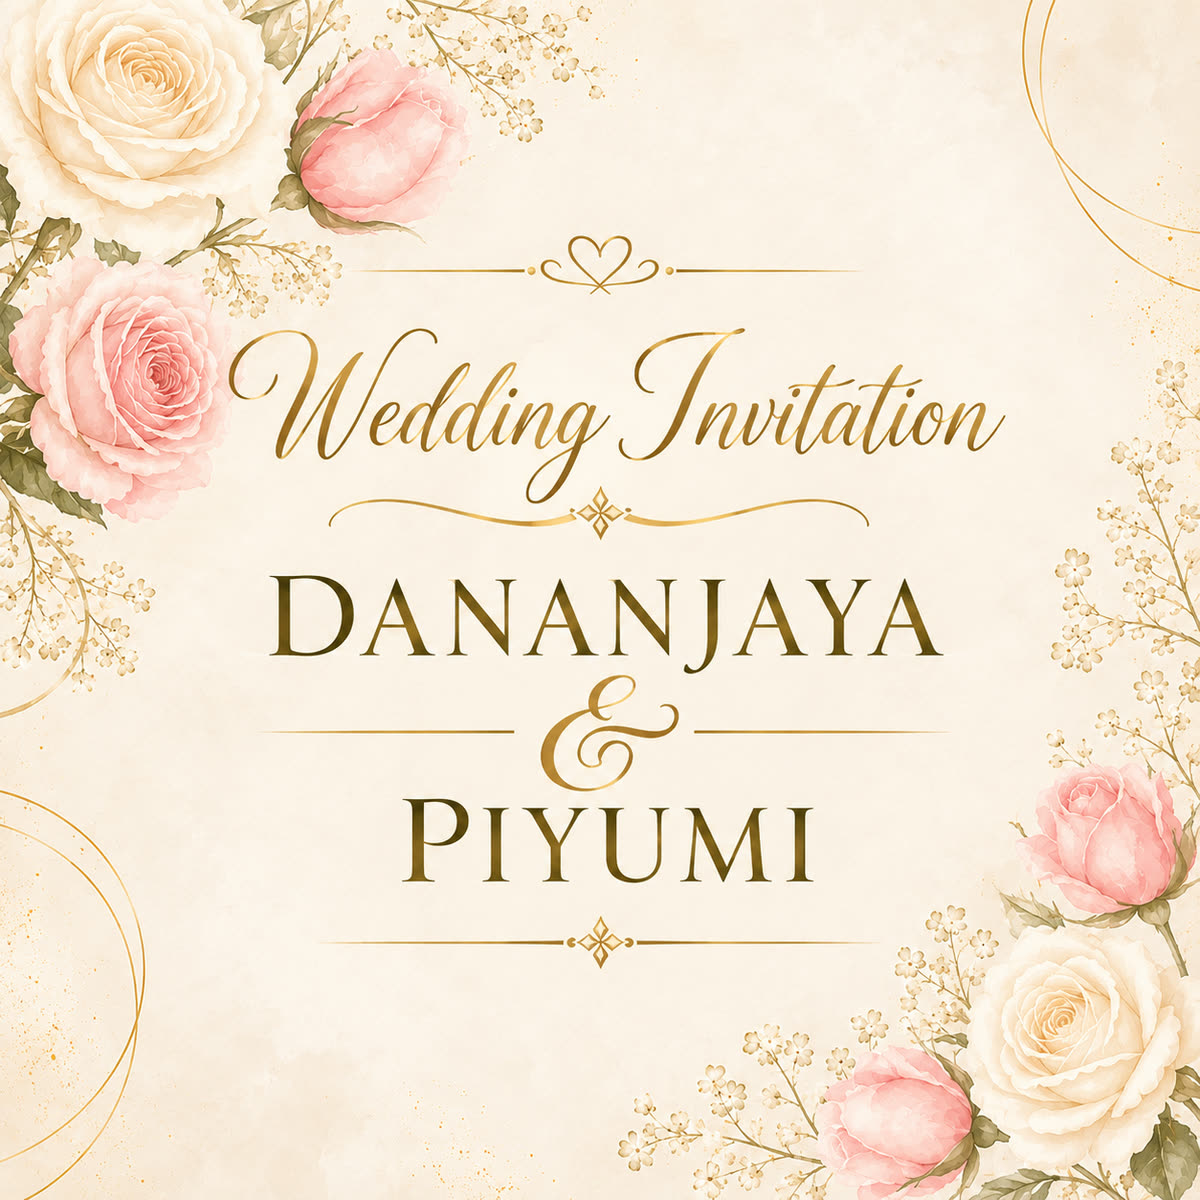
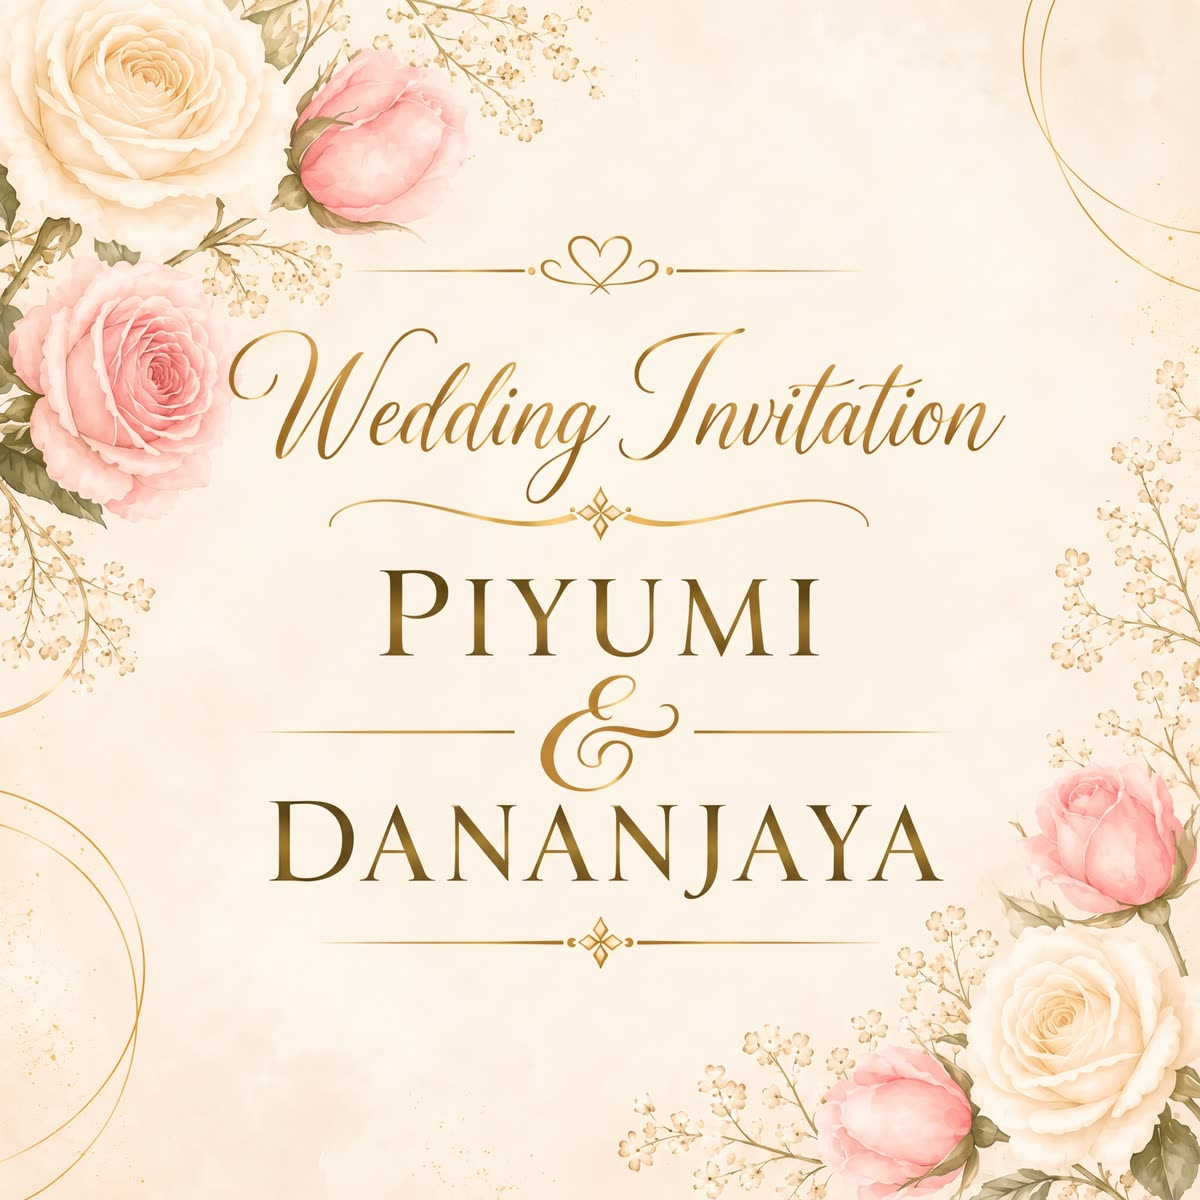
Update OG image with bride name first

diff --git a/index.html b/index.html
@@ -10,7 +10,7 @@
   <meta property="og:url" content="https://dananjaya-piyumi-weddinginvitation.vercel.app/" />
   <meta property="og:title" content="Piyumi & Dananjaya's Wedding Invitation" />
   <meta property="og:description" content="Join us to celebrate our wedding on December 3, 2026 at Pharo Hotel, Nittambuwa." />
-  <meta property="og:image" content="https://dananjaya-piyumi-weddinginvitation.vercel.app/og-image.jpg" />
+  <meta property="og:image" content="https://dananjaya-piyumi-weddinginvitation.vercel.app/og-image.jpg?v=2" />
   <meta property="og:image:type" content="image/jpeg" />
   <meta property="og:image:width" content="1200" />
   <meta property="og:image:height" content="1200" />
@@ -18,7 +18,7 @@
   <meta name="twitter:card" content="summary_large_image" />
   <meta name="twitter:title" content="Piyumi & Dananjaya's Wedding Invitation" />
   <meta name="twitter:description" content="Join us to celebrate our wedding on December 3, 2026 at Pharo Hotel, Nittambuwa." />
-  <meta name="twitter:image" content="https://dananjaya-piyumi-weddinginvitation.vercel.app/og-image.jpg" />
+  <meta name="twitter:image" content="https://dananjaya-piyumi-weddinginvitation.vercel.app/og-image.jpg?v=2" />
   <link rel="preconnect" href="https://fonts.googleapis.com">
   <link rel="preconnect" href="https://fonts.gstatic.com" crossorigin>
   <link
